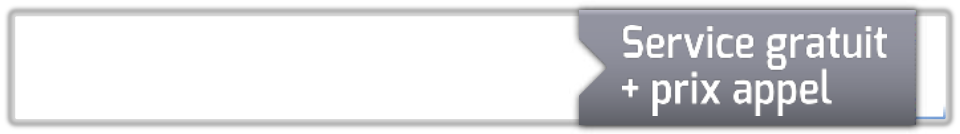
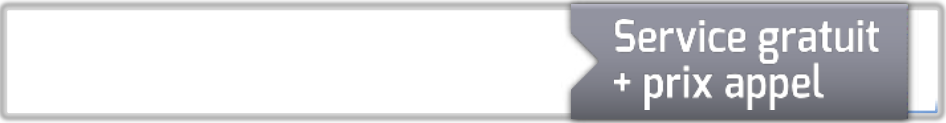
Meilleure mise en forme

diff --git a/packages/app/src/views/FAQ/components/FAQFooter.tsx b/packages/app/src/views/FAQ/components/FAQFooter.tsx
@@ -52,8 +52,7 @@ const styles = {
   }),
   infoLink: {
     color: globalStyles.colors.default,
-    textDecoration: "underline",
-    marginLeft: 8
+    textDecoration: "underline"
   },
   alloEgapro: {
     backgroundImage: `url(${AlloEgaproBackgroundImage})`,
@@ -64,7 +63,6 @@ const styles = {
     fontFamily: "arial",
     fontWeight: "bold" as "bold",
     fontSize: 20,
-    marginLeft: 8,
     marginTop: 10,
     padding: "10px 50px 10px 13px",
     textDecoration: "none",
